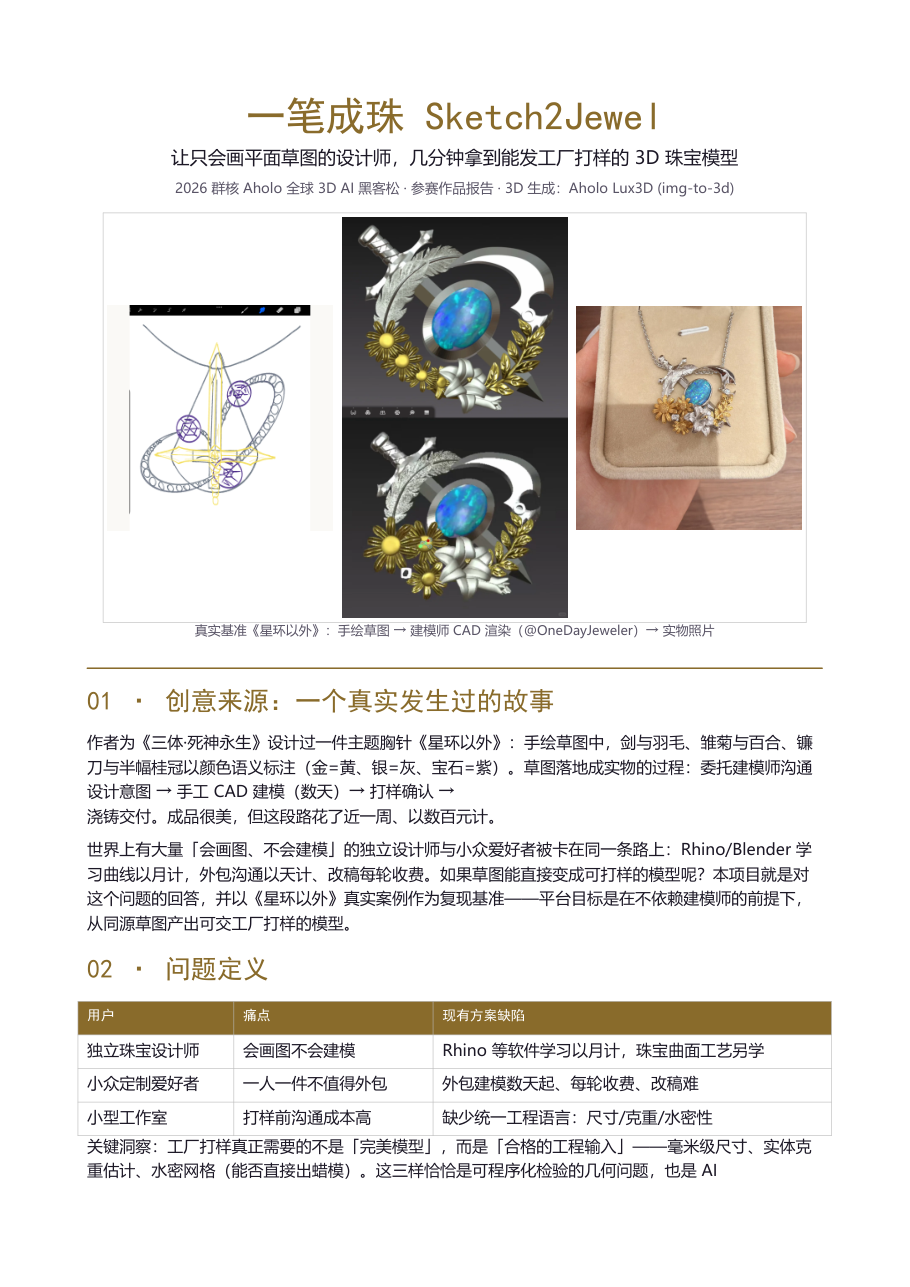
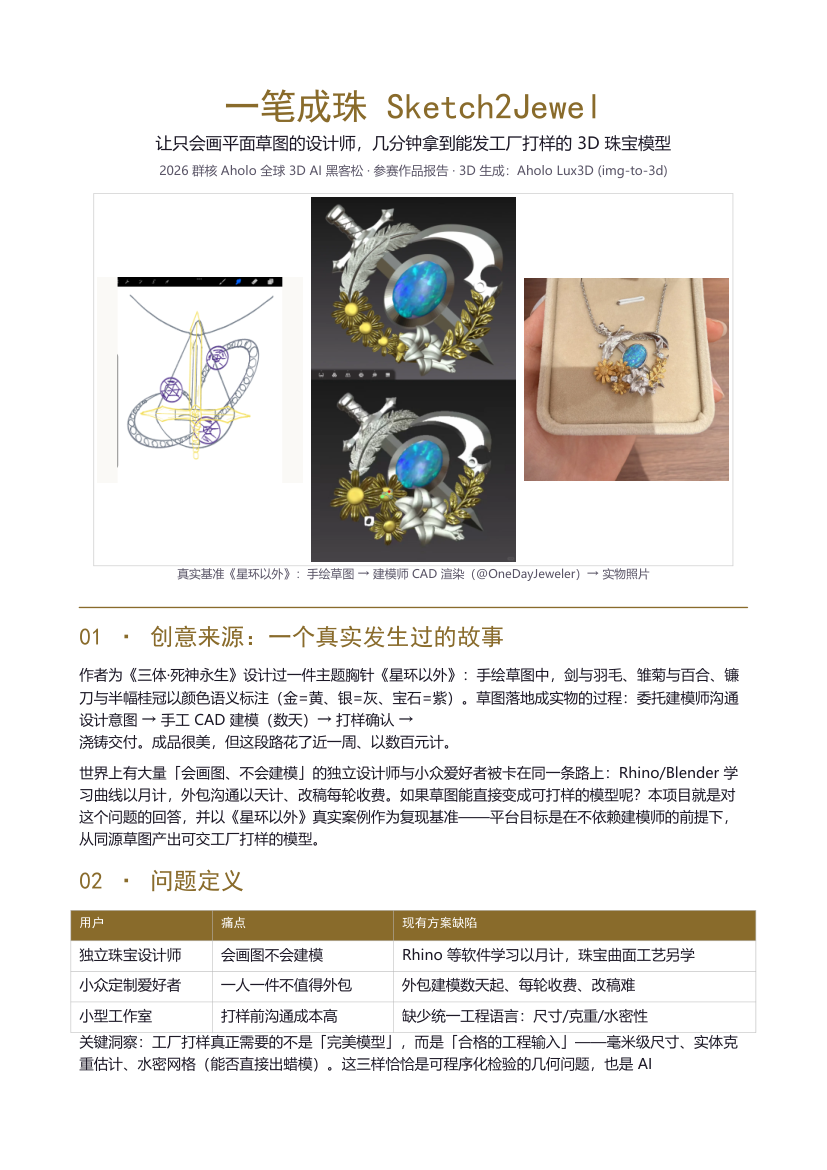
docs: README 全面重写反映 v4 产品全貌 + 报告书字形修复

diff --git a/README.md b/README.md
@@ -4,11 +4,11 @@
 
 **让只会画平面草图的设计师，拿到能发工厂打样的 3D 珠宝模型。**
 
-<sub>手绘草图 → Aholo Lux3D 生成 → 3D 预览 · 尺寸标定 · 可制造性初检 → 打样 STL + 工厂交付单</sub>
+<sub>潦草草图 → AI 设计图 → Lux3D 生成 → 交互配置（换金属 · 镶宝石 · 看参数）→ 浇铸化后处理 → 打样 STL + 工厂交付单</sub>
 
 <br>
 
-2026 群核 Aholo 全球 3D AI 黑客松参赛作品 · 3D 生成由 Aholo Lux3D（img-to-3d）驱动
+2026 群核 Aholo 全球 3D AI 黑客松参赛作品 · 3D 生成由 Aholo Lux3D（img-to-3d）驱动 · Blender 自动化后处理
 
 </div>
 
@@ -23,62 +23,90 @@
 | 自学 Rhino / Blender + ZBrush 镶嵌件 | 数月起步 | 专业建模软件，珠宝曲面工艺另学 |
 | 外包给建模师（沟通 → 建模 → 改稿 → 打样） | 数天~数周，每轮收费 | 沟通成本高，迭代慢 |
 
-**一笔成珠**把这段路压缩到几分钟：上传草图 → Lux3D 生成 3D → 平台完成工程化（尺寸标定、体积/估重、水密性初检）→ 导出打样 STL 和交付单。设计师只管画。
+**一笔成珠**把这段路压缩到几分钟：上传草图 →（可选）AI 设计图增强 → Lux3D 生成 3D → 平台完成工程化与交互配置 → 浇铸化后处理 → 导出打样 STL 和交付单。设计师只管画。
 
 ## 真实案例基准
 
-项目以设计师真实作品《星环以外》（《三体》主题胸针，作者手绘草图、由 OneDayJeweler 建模落地）为复现基准：**平台目标是在不依赖建模师的情况下，从同款草图产出可打样的模型**。草图与成品对照见 `reference/` 目录。
+项目以设计师真实作品《星环以外》（《三体》主题珠宝：作者手绘草图、由专业建模师 @OneDayJeweler 建模落地）为复现基准——**同一份花环剑草图，建模师数天的手工精修 vs 平台数分钟的 AI 全流程**。草图、设计图与成品对照见 `sketches/` 与 `docs/` 目录。
 
-## 核心功能
+> ⚠ 区分声明：社交媒体上《星环以外》的 CAD 建模图为建模师受托制作的人工精修成果；本仓库产出的模型为 AI 生成 + 程序化工程化的独立版本，两者不可混同，报告中仅作人工基准对照。
 
-- **草图即输入**：手机拍照的手绘图即可；颜色即语义（黄=金件、灰=银件、紫=宝石）
-- **双通道生成**：Lux3D API 直连（自动），或官网生成 GLB 后拖入（联动），后者保证零 key 可用
-- **3D 工作台**：转台预览、拖拽旋转、缩放，金银双色棚拍布光
-- **工程化交付单**（右侧实时刷新）：
-  - 尺寸标定：按目标佩戴尺寸（mm）等比缩放
-  - 实体体积（散度定理计算）+ 925 银 / K 金估重
-  - 可制造性初检：水密性（能否直接出蜡模）、开放边界边计数
-- **一键导出**：打样 STL（单位 mm，可直接交 3D 打印蜡模）+ 报告渲染图
+## 完整功能一览
+
+### ① AI 设计图增强（可选）
+潦草草图不是理想的图生 3D 输入。平台集成 **GLM-4V-Flash**（视觉理解，免费）+ **CogView-4**（图像生成）：AI 读懂草图结构并转写专业设计指令，绘制成熟珠宝设计图后再进入 3D 生成——「潦草草图 + 一句话」达到专业设计图水准。
+
+### ② 双通道 3D 生成
+- **自动通道**：Lux3D API 直连（OUS 上传 → img-to-3d 任务 → 轮询 → GLB 自动载入），支持极速/精细引擎与面数选择
+- **联动通道**：官网生成 GLB 后拖入，零 Key 也可完整体验
+
+### ③ 交互式珠宝配置器（宜家式选购体验）
+- **6 种金属**：18K 金 / 玫瑰金 / 925 银 / 铂金 / 镀黑铑 / 做旧银（PBR + 程序化棚拍环境光，含氧化包浆与拉丝表面），材质球实时预览
+- **8 种切工 × 12 种宝石**：圆形明亮式 57 刻面 / 公主方 / 祖母绿阶梯切 / 阿舍尔 / 椭圆 / 梨形 / 马眼 / 枕形 × 钻石 / 红宝 / 蓝宝 / 黄蓝宝 / 紫蓝宝 / 紫尖晶 / 祖母绿 / 尖晶 / 海蓝宝 / 坦桑石 / 紫水晶 / 欧泊 / 珍珠（按折射率、密度做透射渲染，按体积×密度估算克拉）
+- **点击即镶**：参数化宝石 + 包镶 / 爪镶金属连接结构，随整件换色并进 STL
+
+### ④ 点击查看参数
+- 主石：长宽厚、切割方式、估算克拉、折射率 / 硬度
+- 戒圈：两点卡钳测量内直径，自动匹配港码 / 美码
+
+### ⑤ 工程化交付单（实时刷新）
+尺寸标定（mm）· 实体体积（带符号四面体积分）· 925 银 / 18K 金估重 · 水密性初检（能否直接出蜡模）· 开放边界边计数 · **悬浮部件检测**（顶点聚类并查集）
+
+### ⑥ 浇铸化后处理（治 AI「线框感」的关键）
+AI 对线稿的解读偏薄壳，直出常有「钢筋感」。内置 **Blender headless 浇铸管线**（`blender_cast.py`）：Solidify 0.75mm 铸造壁厚 → Voxel 0.28mm 重拓扑 → 铸面平滑 → 减面至打印规模——细壳变**实心铸造体积**，每个模型约 1 分钟。
+
+## 三段式工作流（与专业软件的关系）
+
+```
+Lux3D 生成（AI 负责形）→ Sketch2Jewel 工程化+配置 → Blender/Rhino 精修（专业软件负责厂）→ 工厂
+```
+
+平台导出的 GLB/STL 可直接进入 Blender（内置自动化管线）或 Rhino 精修。AI 出形打样，设计师出精修——上下游而非替代关系。
+
+## 双案例成果
+
+| 案例 | 输入 | 生成 | 水密 | 后处理 |
+|:--|:--|:--|:--|:--|
+| 水滴剑吊坠 | 效果图（白水晶底托方案） | 255,402 tris | ✓ 0 开放边 | 浇铸化 + STL |
+| 六翼天使吊坠 | AI 设计图（潦草草图增强） | 255,530 tris | ✓ 0 开放边 | 浇铸化 + STL |
+
+两件均通过 Blender 浇铸管线产出 3D 打印蜡模级 STL（40mm 标定，29k tris）。
 
 ## 技术栈
 
 | 层 | 实现 |
 |:--|:--|
 | 3D 生成 | 群核 Aholo Lux3D `img-to-3d`（核心）/ GLB 导入通道 |
-| 渲染 | three.js r128（本地打包，完全离线可演示） |
-| 几何分析 | BufferGeometry 遍历 + 量化顶点合并做边界边检测；带符号四面体体积分 |
-| 导出 | STLExporter（二进制 STL，mm 标定） |
-| 形态 | 零依赖单文件网页（`app/index.html`），双击即用 |
+| AI 设计图增强 | 智谱 GLM-4V-Flash（识图）+ CogView-4（出图），可选 |
+| 渲染 | three.js r128（本地打包，完全离线可演示）+ PMREM 程序化棚拍环境光 |
+| 几何分析 | 量化顶点边界边检测 · 带符号四面体体积分 · 顶点聚类悬浮部件检测 |
+| 参数化零件 | 8 切工 × 12 宝石程序化建模（frustum-stack 轮廓）+ 包镶 / 爪镶镶口生成 |
+| 后处理 | Blender headless 浇铸管线（Solidify + Voxel Remesh） |
+| 导出 | STLExporter（二进制 STL，mm 标定，含镶口） |
+| 形态 | 零依赖单文件网页（`app/index.html` + `serve.py` 代理），离线可演示 |
 
 ## 快速开始
 
 ```bash
-# 方式一：直接双击 app/index.html（推荐，零依赖）
-# 方式二：
-cd app && python -m http.server 8787
+# 方式一：直接双击 app/index.html（零依赖；联动模式完整可用）
+# 方式二（含代理，支持 Lux3D API 自动生成）：
+cd app && python serve.py 8787
 # 打开 http://127.0.0.1:8787
 ```
 
-没有 Lux3D 生成结果也能体验：点左侧「载入示例模型」走完整质检-导出流程。
+没有生成结果也能体验：点「载入示例戒指」走完整配置-质检-导出流程。
 
 ## 目录
 
 ```
-app/            平台源码（index.html 单文件 + 本地 three.js）
-sketches/       设计师手绘草图（颜色语义标注）
-reference/      基准案例《星环以外》：草图 / 设计师建模渲染 / 实物照片
-docs/           项目报告书与演示材料
+app/            平台源码（index.html 单文件 + serve.py 代理 + 本地 three.js）
+sketches/       设计师手绘草图与增强/清洁版本
+docs/report/    项目报告书 PDF
+docs/video/     Demo 视频与素材
+reference/      基准案例《星环以外》对照图（设计师建模与实物照片）
 ```
-
-## 路线图
-
-- [ ] Lux3D API 全自动通道（生成 → GLB 拉取 → 交付单一气呵成）
-- [ ] 分部件材质映射（草图颜色 → 金/银/石自动分件）
-- [ ] 戒圈号自动匹配（内径标定 → 国际圈口号）
-- [ ] 接入 LuxReal 出佩戴效果视频
-- [ ] 工厂端：报价参数（克重 × 金价 × 工费）自动生成
 
 ## 声明
 
-- 3D 生成能力来自[群核 Aholo Lux3D](https://3d.aholo.cn)，本平台在其输出上做珠宝工程化加工
-- 基准案例《星环以外》草图与实物照片版权归原设计师所有，仅供参赛评审对照使用
+- 3D 生成能力来自[群核 Aholo Lux3D](https://3d.aholo.cn)，本平台在其输出上做工程化加工与交互配置
+- 基准案例《星环以外》的设计师建模图与实物照片版权归原设计师所有，仅作参赛基准对照，不可与本平台产出混同
